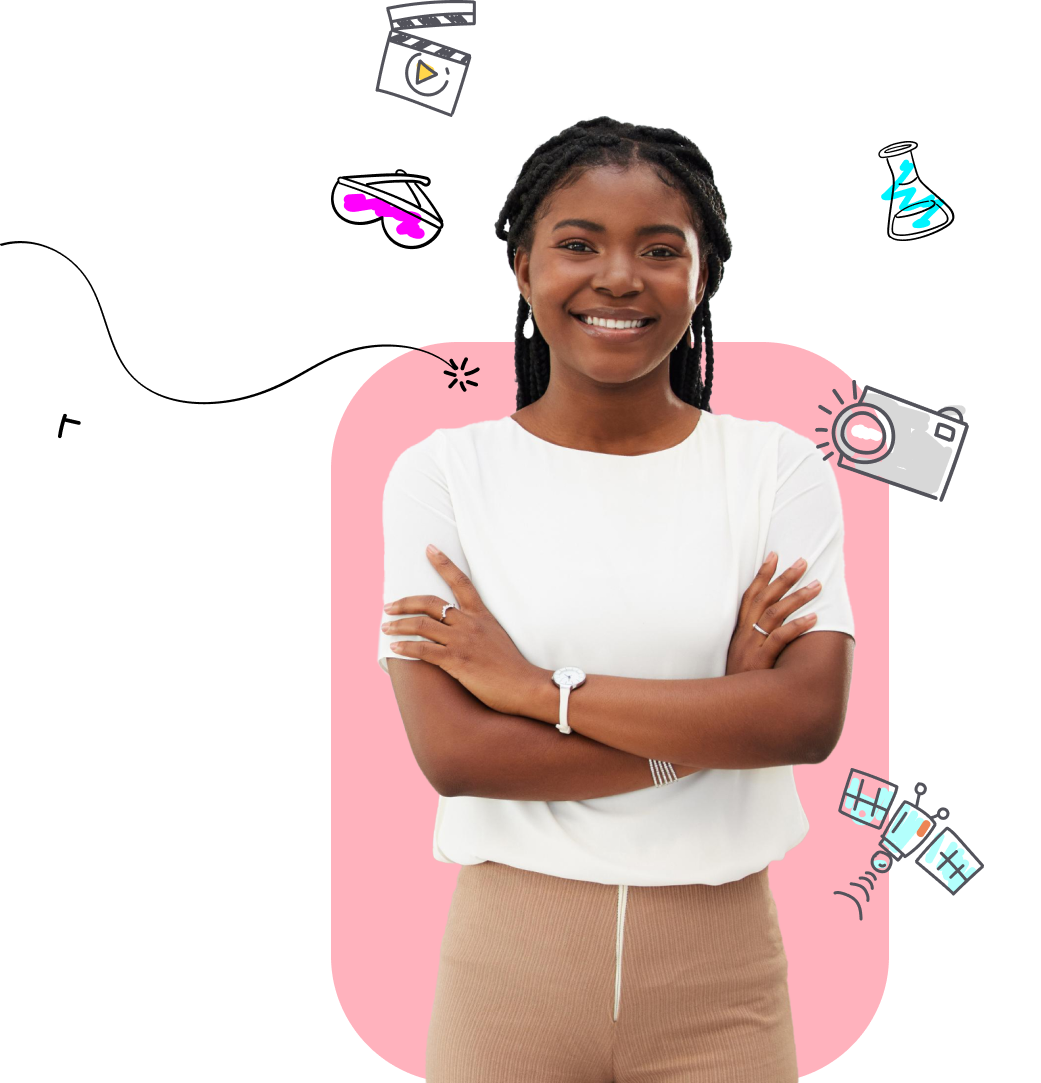
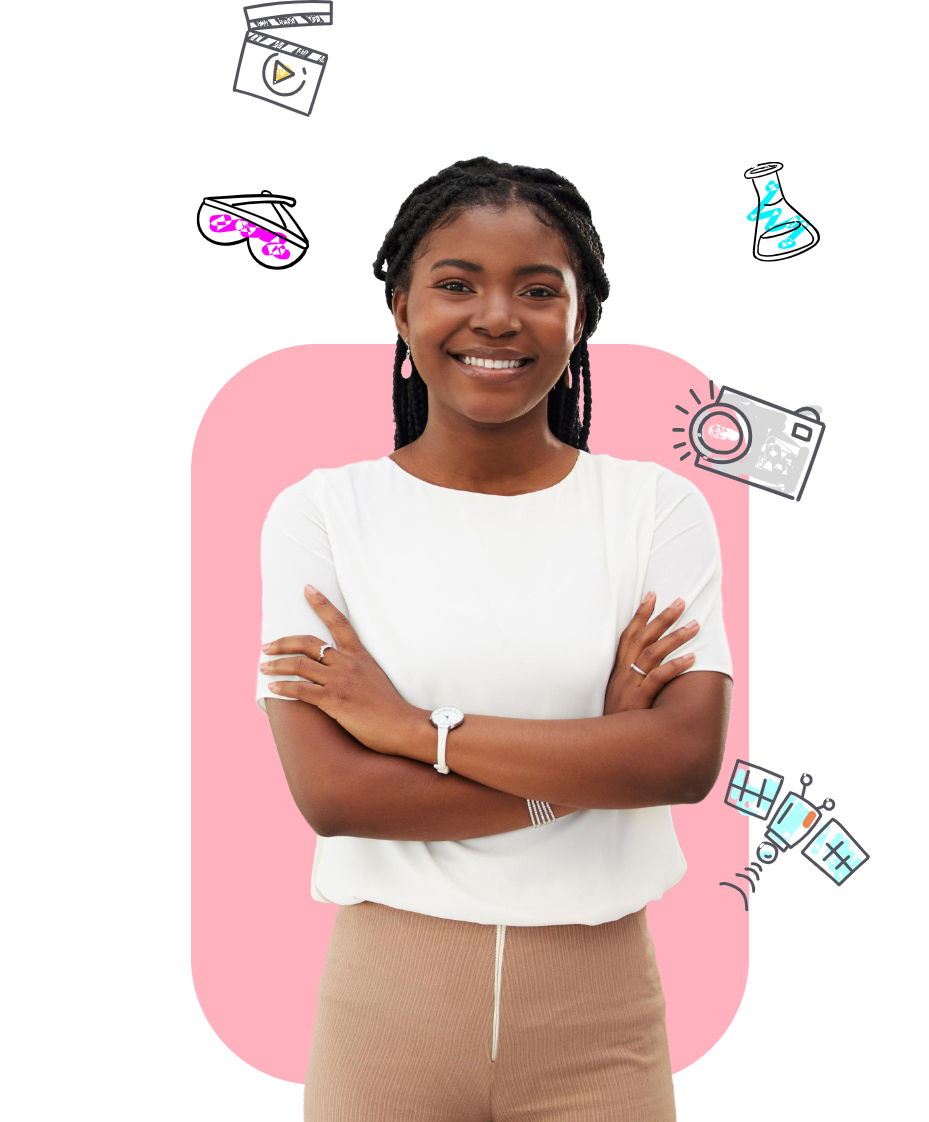
working

diff --git a/src/components/enroll.tsx b/src/components/enroll.tsx
@@ -9,24 +9,12 @@ export default function Enroll() {
       className=" z-10 md:pt-10 mt-10 md:mt-0 md:pr-spacing-normal relative"
     >
       <div className="flex flex-wrap  flex-col w-full md:flex-row-reverse  relative z-50 gap-4 lg:px-10 md:translate-y-10 bg-white md:rounded-r-3xl">
-        <div className="flex gap-8 md:basiss-80 md:ml-10 xl:ml-0 lg:hidden md:block">
-          <img
-            src={nodeIcon}
-            className=" mb-auto h-20 xl:h-[10rem] md:block hidden object-contain  bottom-20 absolute right-10 xl:-0 xl:left-0 md:relative md:right-auto"
-          />
-        </div>
-
-        <div className="lg:flex gap-8  xl:ml-0 md:hidden ">
-          <img
-            src={nodeIcon}
-            className=" mb-auto h-20 xl:h-[6rem] md:block hidden object-contain  bottom-20 absolute  xl:-0 xl:left-10  top-0 md:right-auto"
-          />
-        </div>
+      
 
 
         <img
           src={enrollImage}
-          className="h-[17rem] md:h-96 xl:h-[21rem] md:block hidden md:absolute left-0 lg:left-64 xl:left-14 bottom-0 -z-20 w-full md:w-auto mt-auto object-contain"
+          className="h-[17rem] md:h-96 xl:h-[21rem] md:block hidden md:absolute left-0 lg:left-64 xl:left-10 bottom-0 -z-20 w-full md:w-auto mt-auto object-contain"
         />
 
         <div className="flex flex-1 px-8 flex-col basis-80 items-center md:items-end text-center md:text-right py-10 md:p-20 gap-10 justify-center">

diff --git a/src/components/cta.tsx b/src/components/cta.tsx
@@ -22,16 +22,16 @@ export default function Cta() {
         The STEM Teacher training course is Ideal for
       </h2>
 
-      <div className="w-full flex  rounded-3xl bg-gray-normal overflow-hidden lg:h-[18rem] xl:lg:h-[28rem]">
+      <div className="w-full flex  !rounded-3xl bg-gray-normal overflow-hidden lg:h-[18rem] xl:lg:h-[28rem]">
         <img
           src={current.image}
           alt=""
-          className="flex-d1 basis-8s0 w-1/2 object-cover rounded-t-3x md:rounded-l-3x"
+          className=" w-1/2 object-cover !rounded-t-3x md:!rounded-l-3x"
         />
         <div
-          className={`flex flex-1 basis-80 items-center justify-center p-10 duration-500 rounded-b-3x md:rounded-r-3x transition-all ${current.className}  ${
-            current.id == 1 ? "!bg-[#7BD2E7]" : ""
-          }`}
+          className={`flex flex-1 basis-80 items-center justify-center p-10 duration-500 !rounded-b-3x md:!rounded-r-3x transition-all ${
+            current.className
+          }  ${current.id == 1 ? "!bg-[#7BD2E7]" : ""}`}
         >
           <p
             className={`${

diff --git a/src/components/hero.tsx b/src/components/hero.tsx
@@ -6,9 +6,9 @@ export default function Hero(props: React.PropsWithChildren<{ image: string }>) 
             {props.children}
         </div>
 
-        <div className=" right-0 xl:right-10 md:absolute bottom-0 lg:mt-20  xl:64  -z-0 flex-1 md:flex-none basis-60 flex items-end justify-center">
+        <div className=" right-0 xl:right-10 md:absolute bottom-0 xl:-bottom-32 lg:mt-20  xl:64  -z-0 flex-1 md:flex-none basis-60 flex items-end justify-center">
             {/* <div className="h-4/5 aspect-[4/6] absolute rounded-[4em] -z-10 bg-pink-normal"/> */}
-            <img src={props.image} className="h-full md:w-[82rem] lg:w-[40rem] xl:w-[44rem] z-10 object-contain"/>
+            <img src={props.image} className="h-full md:w-[82rem] lg:w-[40rem] xl:w-[45rem] z-10 object-contain"/>
         </div>
     </section>
 }

diff --git a/src/components/expect.tsx b/src/components/expect.tsx
@@ -11,7 +11,7 @@ export default function Expect() {
     >
       <div className="w-full flex mt-10 flex-col p-4 md:p-12 gap-20 rounded-3xl md:rounded-[4em] bg-[#FFE154]">
         <header className="w-full gap-4 flex flex-col text-center items-center">
-          <h2 className="text-2xl font-bold md:text-5xl">What to Expect</h2>
+          <h2 className="text-2xl font-medium md:text-5xl">What to Expect</h2>
           <p className="md:text-2xl md:w-4/5">
             This course is more than theory. It's a hands-on, engaging
             expereicnce that you can put into practice immediately. Here's what

diff --git a/src/constants/media.ts b/src/constants/media.ts
@@ -12,6 +12,6 @@ export { default as cta2Image } from "../assets/images/cta-2.png";
 export { default as cta3Image } from "../assets/images/cta-3.png";
 export { default as whiteImage } from "../assets/images/white.webp";
 export { default as mainHeroImage } from "../assets/images/side.png";
-export { default as enrollImage } from "../assets/images/enroll.webp";
+export { default as enrollImage } from "../assets/images/enroll.png";
 export { default as thankHeroImage } from "../assets/images/man 1.png";
 export { default as missedHeroImage } from "../assets/images/man 2.png";
